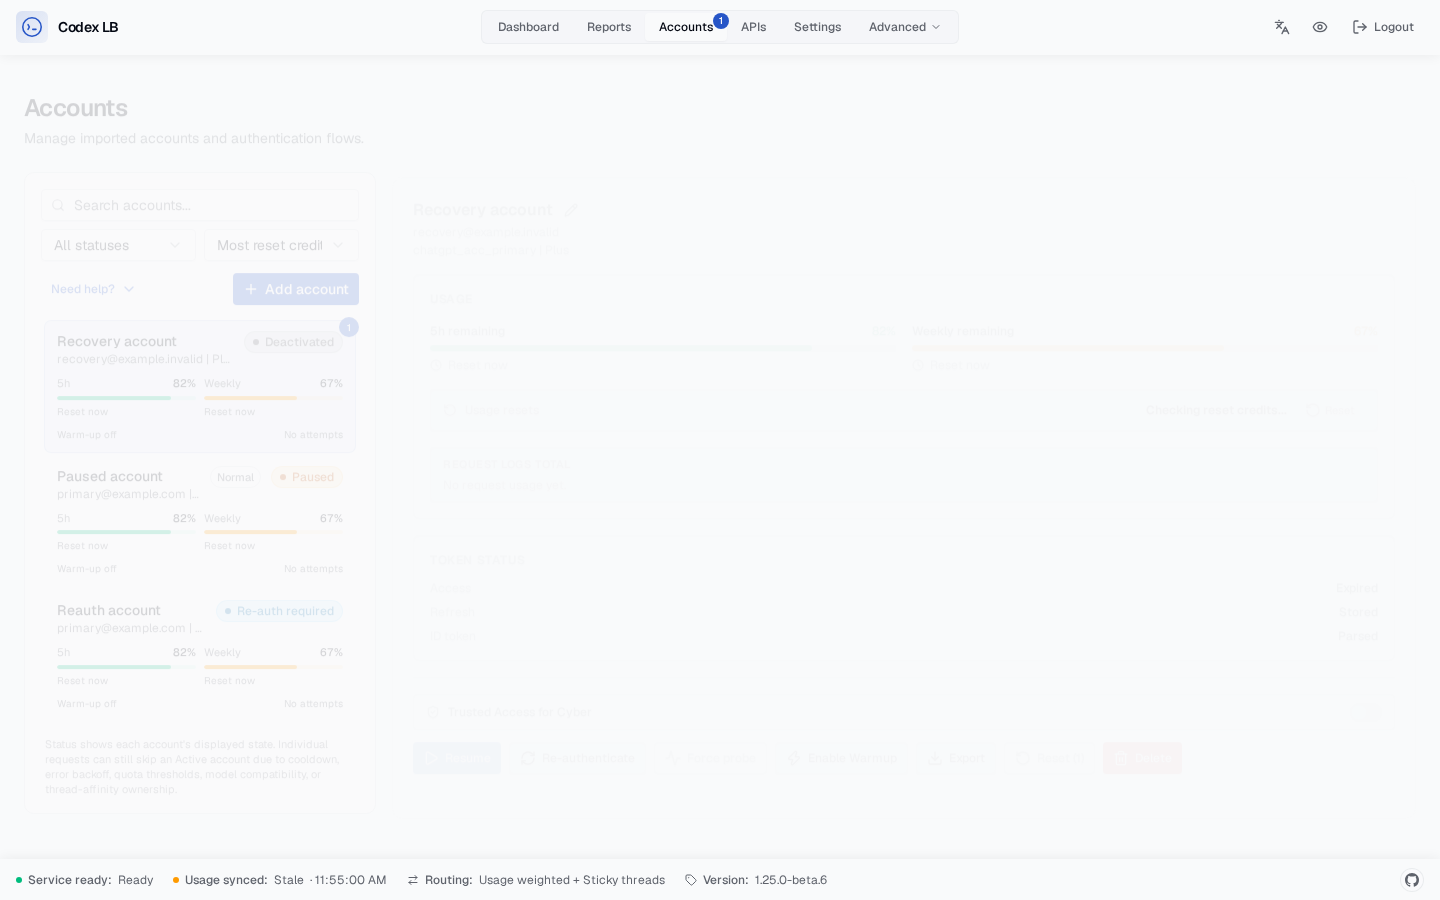
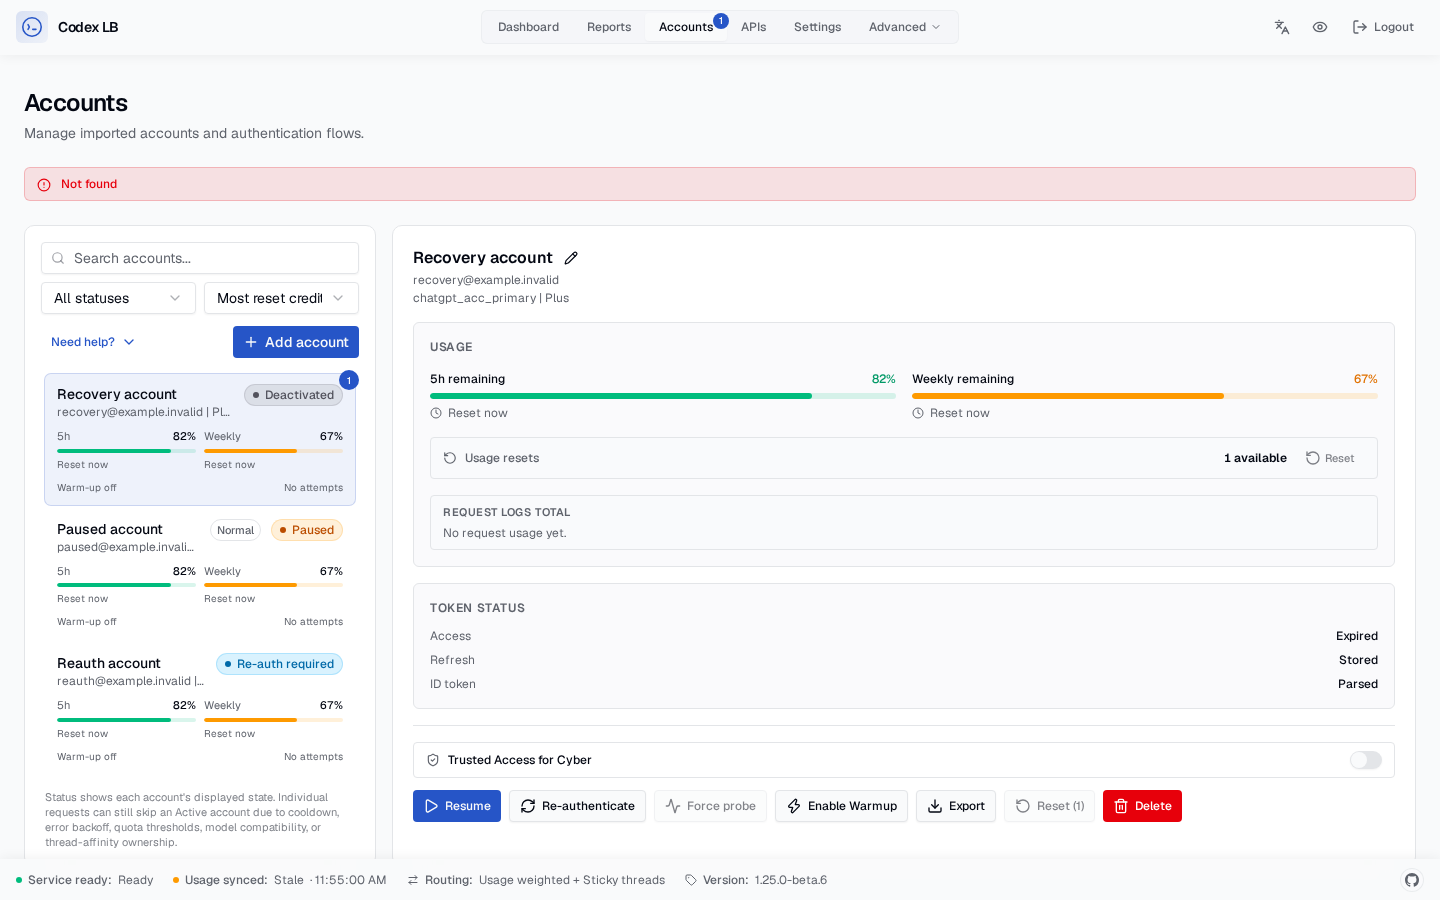
docs(ui): verify recovery control screenshots against baseline

diff --git a/openspec/changes/resume-deactivated-accounts-from-dashboard/evidence/README.md b/openspec/changes/resume-deactivated-accounts-from-dashboard/evidence/README.md
@@ -1,0 +1,7 @@
+# Verified browser evidence
+
+Captured in Chromium on 2026-09-10 from freshly built frontend bundles. Before: the three product components from main `43a45f78`. After: this PR's components. The capture explicitly checks that a deactivated account has no Resume control in the baseline and has one after the change, in both the dashboard list and Accounts page. Both builds use the same synthetic account state and response fixtures; no credentials or live upstream requests are involved.
+
+PNG pairs cover dashboard list at 1440x900, responsive cards at 640x900 and 1024x900, and Accounts page at 1440x900. The Accounts page uses fixture responses for trends and reset-credit queries and is scrolled to keep the recovery controls visible. The red `Not found` banner in both Accounts captures is an intentionally unsupported upstream-proxy fixture request; it is unrelated to recovery actions and is not a product failure from this change.
+
+The permanent dashboard browser regression covers list containment and card widths 640, 1024 and 1440, including the extra reset-credit button and the no-Resume reauth_required case. All 6 browser tests passed; account/dashboard component tests passed 484 tests in 41 files. Frontend lint, typecheck, build and scoped strict OpenSpec validation passed. Product/test code is unchanged by this evidence refresh.
